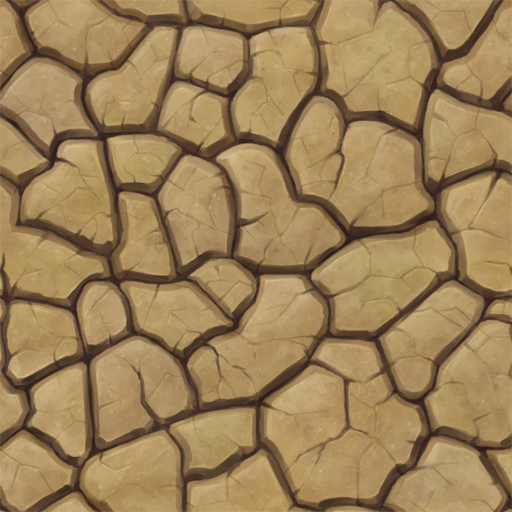
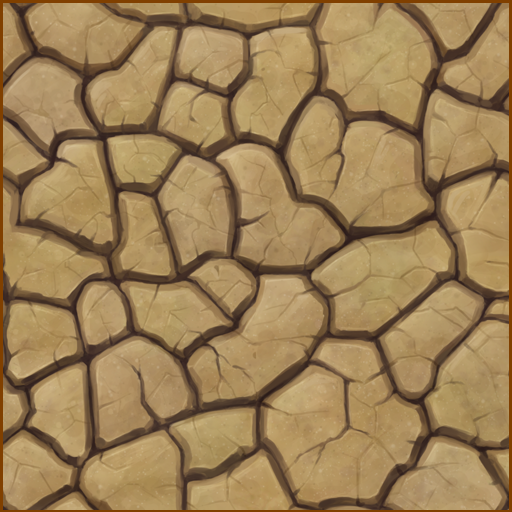
grid arena done

Changed region(s): [[0.0, 0.0, 1.0, 1.0]]

diff --git a/js/background.js b/js/background.js
@@ -8,13 +8,17 @@ function Background(game) {
 
   this.img = new Image();
   this.img.src = "images/bk.jpg";
+  this.imgGrid = new Image();
+  this.imgGrid.src = "images/vLLgDyu.png";
+  this.imgeGrid = new Image();
+  this.imgeGrid.src = "images/Brick_Block.png";
 }
 
 
 Background.prototype.draw = function() {
   this.game.ctx.drawImage(this.img, this.x, this.y, this.game.canvas.width, this.game.canvas.height);
 
-  //this.game.ctx.drawImage(this.img, this.x + this.game.canvas.width, this.y, this.game.canvas.width, this.game.canvas.height);
+  this.game.ctx.drawImage(this.img, this.x + this.game.canvas.width, this.y, this.game.canvas.width, this.game.canvas.height);
 
 };
 
@@ -23,3 +27,24 @@ Background.prototype.move = function() {
 
   if (this.x < -this.game.canvas.width) this.x = 0;
 };
+
+Background.prototype.drawGrid = function() {
+  var w = this.game.canvas.width;
+  var h = this.game.canvas.height;
+
+  for (x=0;x<=w;x+=40) {
+      for (y=0;y<=h;y+=40) {
+        this.game.ctx.drawImage(this.imgGrid,x,y,40,40);
+      }
+  }
+  };
+
+Background.prototype.border = function(){
+  var w = this.game.canvas.width;
+  var h = this.game.canvas.height;
+
+  for (y=0;y<=h;y+=40){
+    this.game.ctx.drawImage(this.imgeGrid,x,y,40,40);
+  }
+}
+  

diff --git a/js/game.js b/js/game.js
@@ -2,13 +2,13 @@ function Game(canvasId) {
   this.canvas = document.getElementById(canvasId);
   this.ctx = this.canvas.getContext("2d");
   this.background = new Background(this);
-
   this.reset();
 }
 
 Game.prototype.start = function() {
   setInterval (function() {
     this.draw();
+    this.moveAll()
   }.bind(this), 30);
 }
 
@@ -27,6 +27,7 @@ Game.prototype.gameOver = function() {
 
 Game.prototype.reset = function() {
   this.background = new Background(this);
+  this.player = new Player(this);
 
 };
 
@@ -44,6 +45,9 @@ Game.prototype.clear = function() {
 
 Game.prototype.draw = function() {
   this.background.draw();
+  this.background.drawGrid();
+  this.background.border();
+  this.player.draw();
 };
 
 Game.prototype.moveAll = function() {

diff --git a/js/player.js b/js/player.js
@@ -1,9 +1,28 @@
 function Player(game){
+  this.x = 1;
+  this.y = 1;
+  this.game = game;
   
+
+  this.width = 20;
+  this.height = 50;
+
+  this.img = new Image();
+  this.img.src = "images/sprites.png";
 }
 
 Player.prototype.draw = function() {
-}
+  this.game.ctx.drawImage(
+    this.img,
+    this.img.frameIndex * (this.img.width /this.img.frames),
+    0,
+    this.img.width / this.img.frames,
+    this.x,
+    this.y,
+    this.width,
+    this.height
+  )
+};
 
 Player.prototype.setListeners = function() {
 

diff --git a/game.html b/game.html
@@ -16,7 +16,7 @@
 <body>
   <div class = "conteniner-fluid">
   <div class = "window">
-    <canvas id="canvas" width="1400" height="700" style="border: solid 1px black"></canvas>
+    <canvas id="canvas" width="1400" height="680" style="border: solid 1px black"></canvas>
     </div>
     <audio src="sound/BoxCat_Games_-_10_-_Epic_Song.mp3" autoplay></audio>
     </div>

diff --git a/css/main.css b/css/main.css
@@ -26,7 +26,7 @@
 
 .window{
   text-align: center;
-  margin-top: 8.25em;
+  margin-top: 8.75em;
 }
 
 .img{
